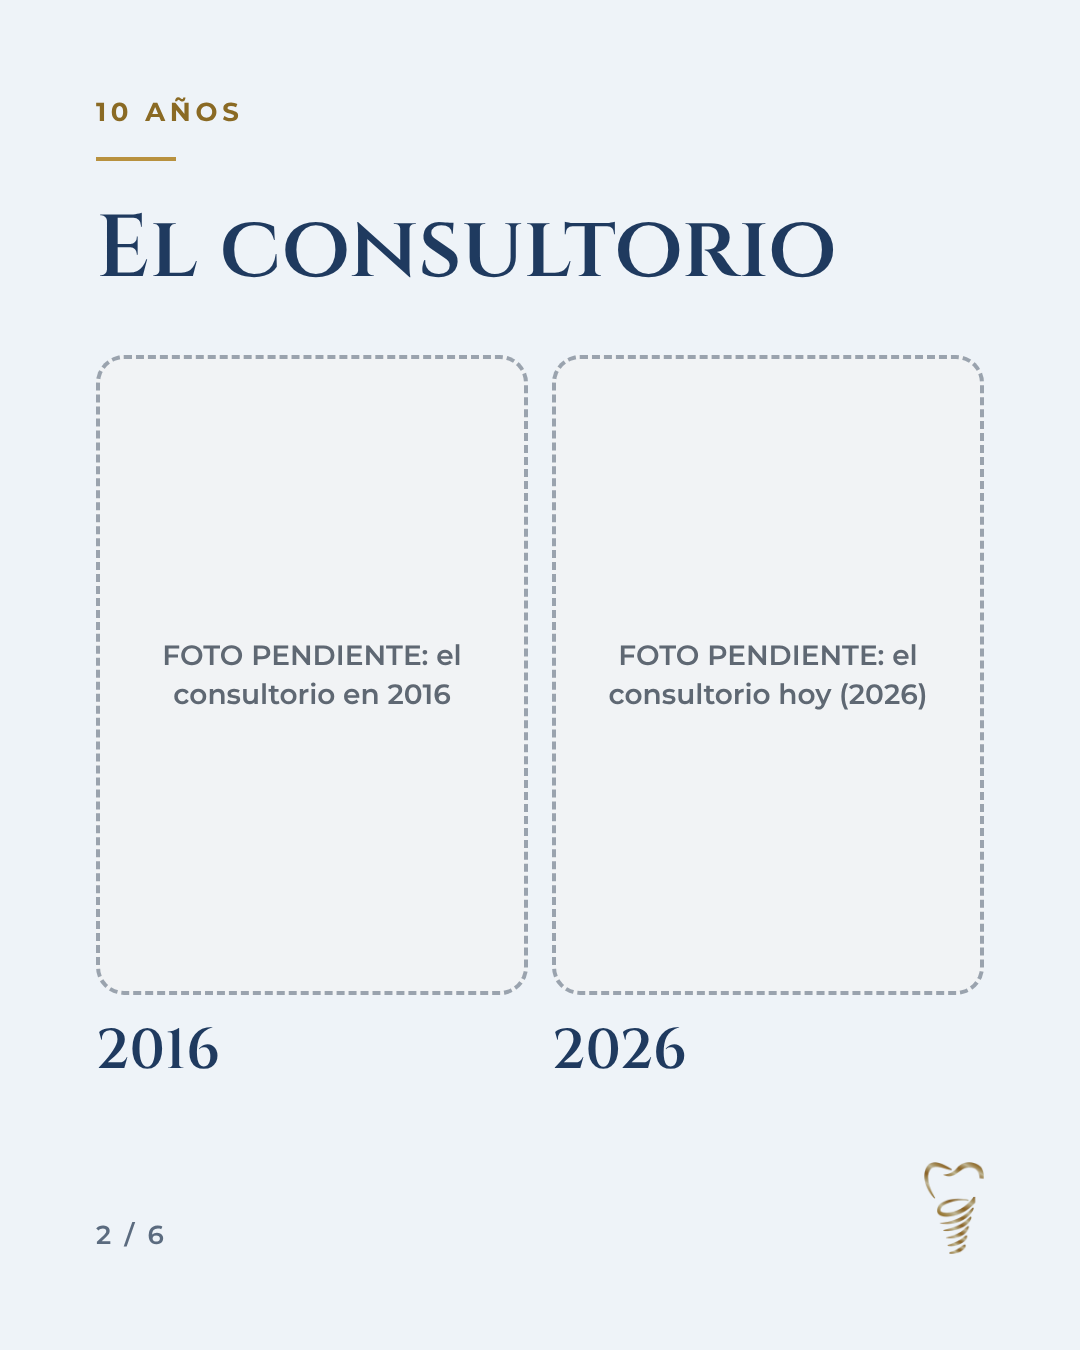
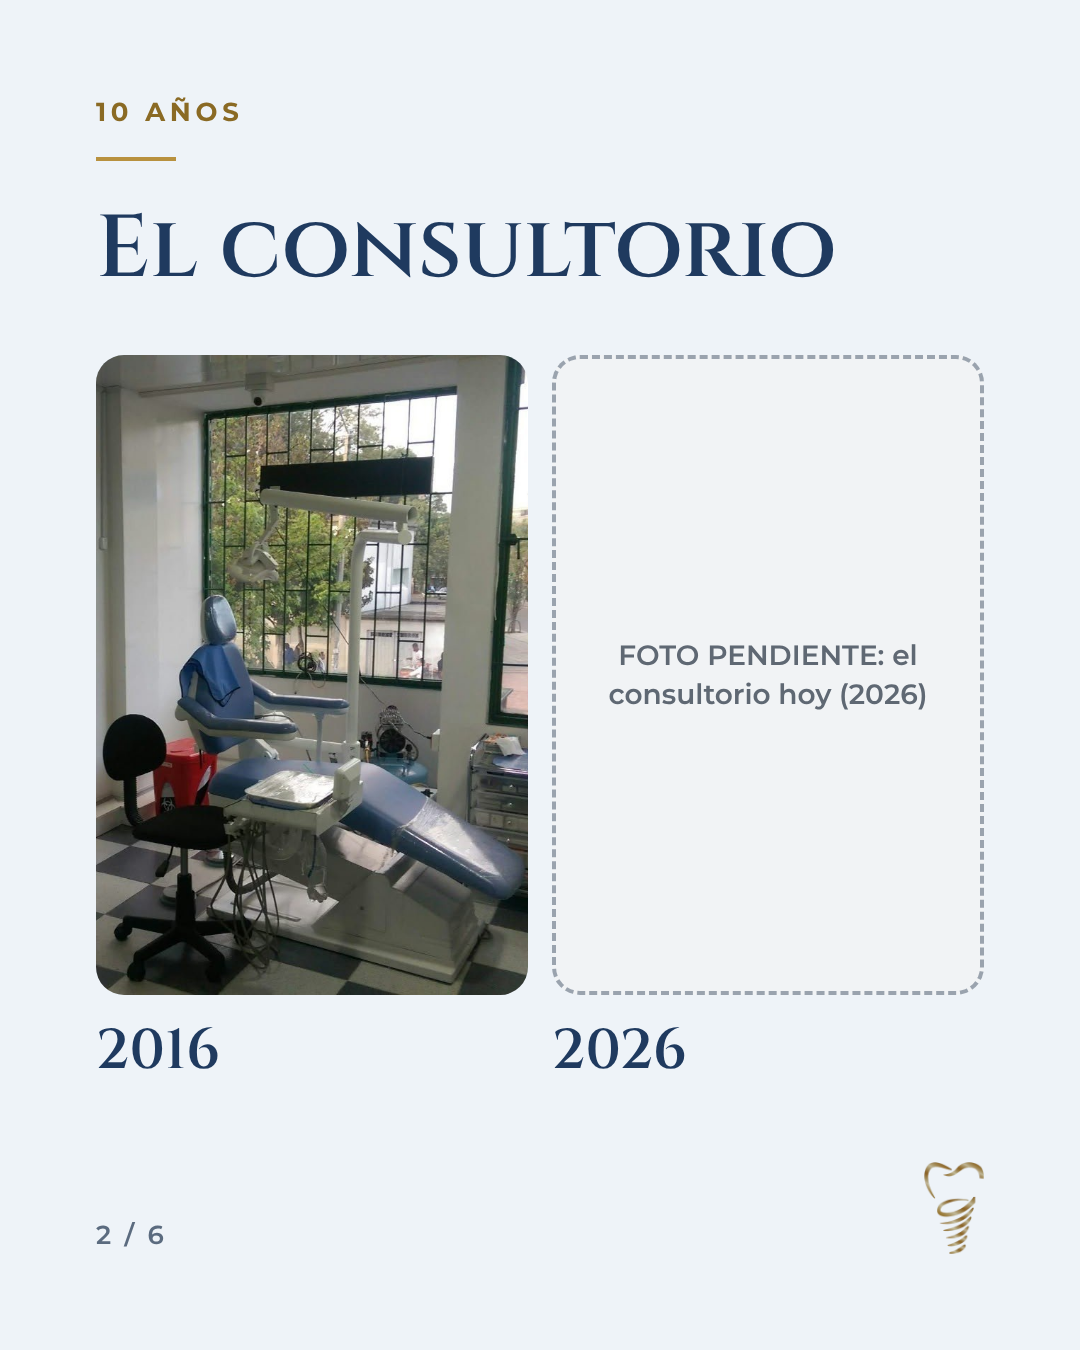
P2-02: foto del consultorio en 2016
Foto enviada por el cliente (venía girada 90°; se guardó derecha en
img/historia/). Queda pendiente la foto del consultorio hoy.

Claude-Session: https://claude.ai/code/session_01MRgSa3dPEAwVeA3tGeuydQ

Changed region(s): [[0.0917, 0.2489, 0.4889, 0.7467]]

diff --git a/redes/_fuentes/feed/P2-02.html b/redes/_fuentes/feed/P2-02.html
@@ -17,7 +17,7 @@
   <div class="linea-oro"></div>
   <h2 class="titulo" style="margin-bottom:48px">El consultorio</h2>
   <div class="pareja">
-    <div class="col"><div class="pendiente">FOTO PENDIENTE: el consultorio en 2016</div><div class="anio">2016</div></div>
+    <div class="col"><div class="foto"><img src="../../../img/historia/consultorio-2016.jpg" alt="" style="object-position:68% 50%"></div><div class="anio">2016</div></div>
     <div class="col"><div class="pendiente">FOTO PENDIENTE: el consultorio hoy (2026)</div><div class="anio">2026</div></div>
   </div>
 </div>
